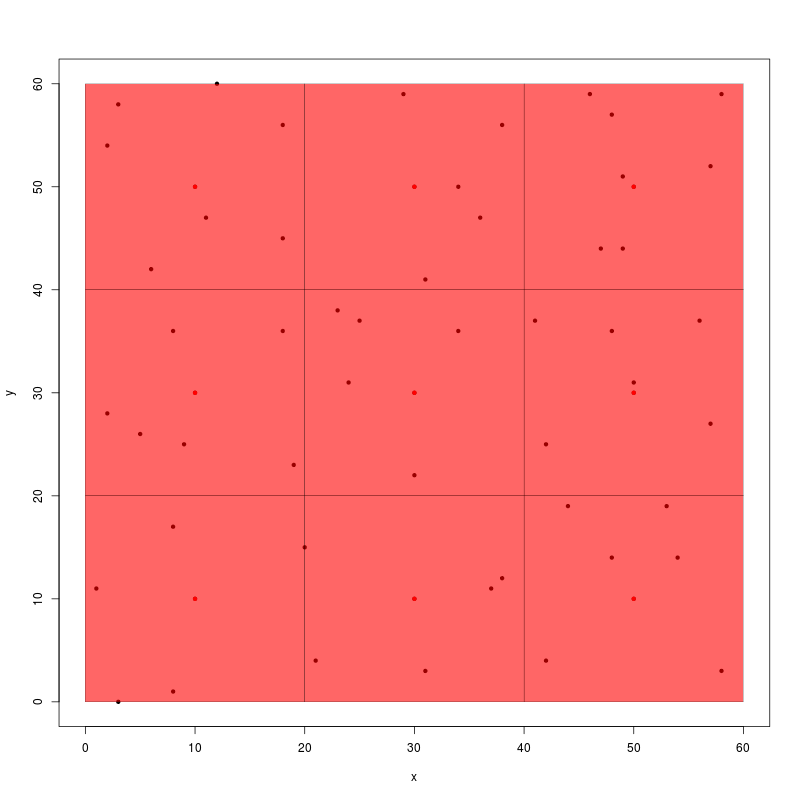
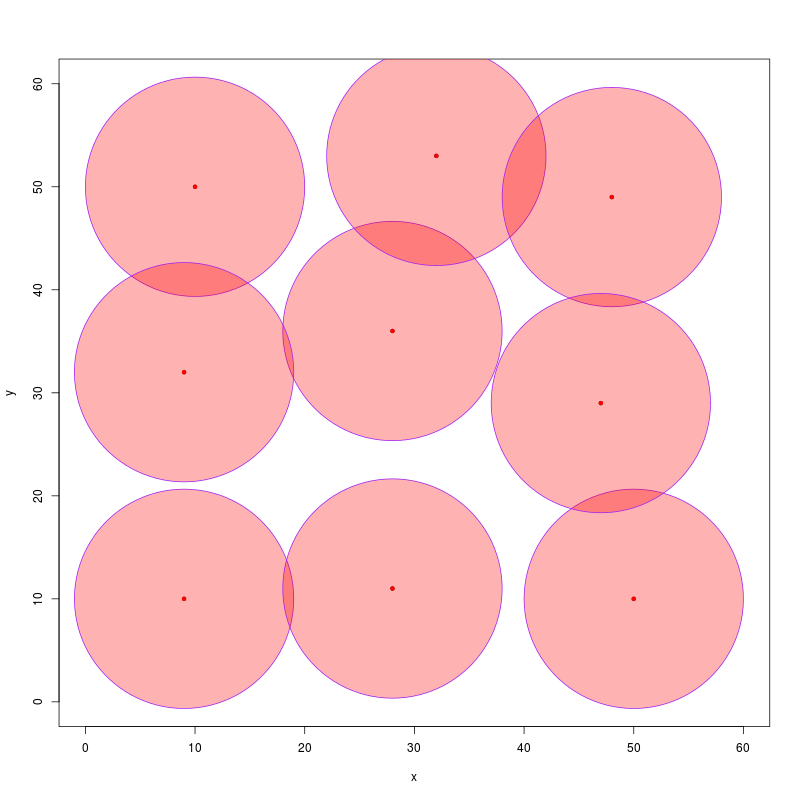
08/05

diff --git a/src/executor/SensorsCoverageTestInstanceExecutor.java b/src/executor/SensorsCoverageTestInstanceExecutor.java
@@ -25,7 +25,7 @@ import problemData.SensorsProblemData;
 public class SensorsCoverageTestInstanceExecutor{
 	private static final int MAX_NUM_HILOS = 8;
 	private static boolean tracing = false;
-	static String outputDir = "/home/darkside/git/SIA/pruebaD1";
+	static String outputDir = "/home/hernan/git/SIA/pruebaE1";
 	private static String filename = "CircularRadioTest";
 	
 	static int sensorRatio = 10;
@@ -34,16 +34,16 @@ public class SensorsCoverageTestInstanceExecutor{
 	static SensorsFieldData sensorsFieldData = new SensorsFieldData(sensorRatio, gridSizeX, gridSizeY);
 	static Location[] prefixedLocations = {};
 	
-	private static int alleleLength = 9;
+	private static int alleleLength = 60;
 	private static int[] numExecutions = {30}; //30
-	private static int[] maxGens = {100, 500}; //100,500
+	private static int[] maxGens = {200}; //100,500
 	private static int[] popSolutionNumbers = {100};
-	private static float[] crossoverProbabilities = {0.8f, 0.9f, 1.0f};
-	private static float[] mutationProbabilities = {-1}; // para que la poblacion sea 1/popSOoutionNumber, ingresar un negativo
+	private static float[] crossoverProbabilities = {0.4f, 0.5f, 0.6f,0.7f, 0.8f};
+	private static float[] mutationProbabilities = {0.1f, 0.3f, 0.5f, 0.7f, 0.9f}; // para que la poblacion sea 1/popSOoutionNumber, ingresar un negativo
 	private static int alfa = 2; //siempre tiene que ser >1 para que funcione bien la func objetivo
 	private static ObjectiveFunction objectiveFunction = new CircularRatioObjectiveFunction(sensorsFieldData, alfa);
 	//new SensorsProblemSquareRatioObjectiveFunction(sensorsFieldData, getTransmissorsPositions(), alfa)
-	private static double maxFit = 1111.11f; //1111,111111111 cuadrado
+	private static double maxFit = 684.694f; //1111,111111111 cuadrado  684,694444444 para 9 sensores circulares radio 10
 	private static Individual individual = new SensorsProblemIndividual(alleleLength, sensorsFieldData);
 	
 	private static SensorsProblemData sensorsProblemData = new SensorsProblemData(maxFit, alfa, objectiveFunction, individual, prefixedLocations);

diff --git a/src/executor/ThreadedExecutor.java b/src/executor/ThreadedExecutor.java
@@ -29,7 +29,8 @@ public class ThreadedExecutor implements Runnable {
 		runConf.setBestIndividualsAfterRun(new Population(bestIndividuals, runConf.getSensorsProblemData()));
 		SensorsProblemIndividual bestFitIndividual = runConf.getBestFitIndividual();
 		runConf.setBestFitIndividual(bestFitIndividual);
-		String filename = String.valueOf(runConf.getCrossoverProbability())+"-"+runConf.getCrossoverOperatorName()+"-"+runConf.getMaxGen()+".csv";
+		String filename = String.valueOf(runConf.getCrossoverProbability())+"-"+runConf.getMaxGen()+runConf.getMutationProbability()+"-"+
+				runConf.getCrossoverOperatorName()+".csv";
 		CsvWriter.writeRunConfigurationInfo(outputDir, filename, runConf);
 		//CsvWriter.writeSolution(outputDir, filename, bestFitIndividual);
 		//CsvWriter.writeLocations(outputDir, getTransmissorsPositions());

diff --git a/src/fileWriters/POIWriter.java b/src/fileWriters/POIWriter.java
@@ -24,9 +24,11 @@ public class POIWriter {
 		XSSFWorkbook workbook = new XSSFWorkbook();
 		for (SensorsProblemRunConfiguration runConf : runConfigs) {
 			String crossoverProbability = String.valueOf(runConf.getCrossoverProbability());
+			String mutationProbability = String.valueOf(runConf.getMutationProbability());
 			String crossoverOperatorShorterName = shortenCrossoverOperator(runConf.getCrossoverOperatorName());
 			String genNumber = String.valueOf(runConf.getMaxGen());
-			XSSFSheet sheet = workbook.createSheet(crossoverProbability + "-" + crossoverOperatorShorterName + "-" + genNumber);
+			String sheetName = crossoverProbability +"-"+ mutationProbability +"-"+ crossoverOperatorShorterName +"-"+ genNumber;
+			XSSFSheet sheet = workbook.createSheet(sheetName);
 			int r = 0;
 			int column = 0;
 			int ejec = 1;
